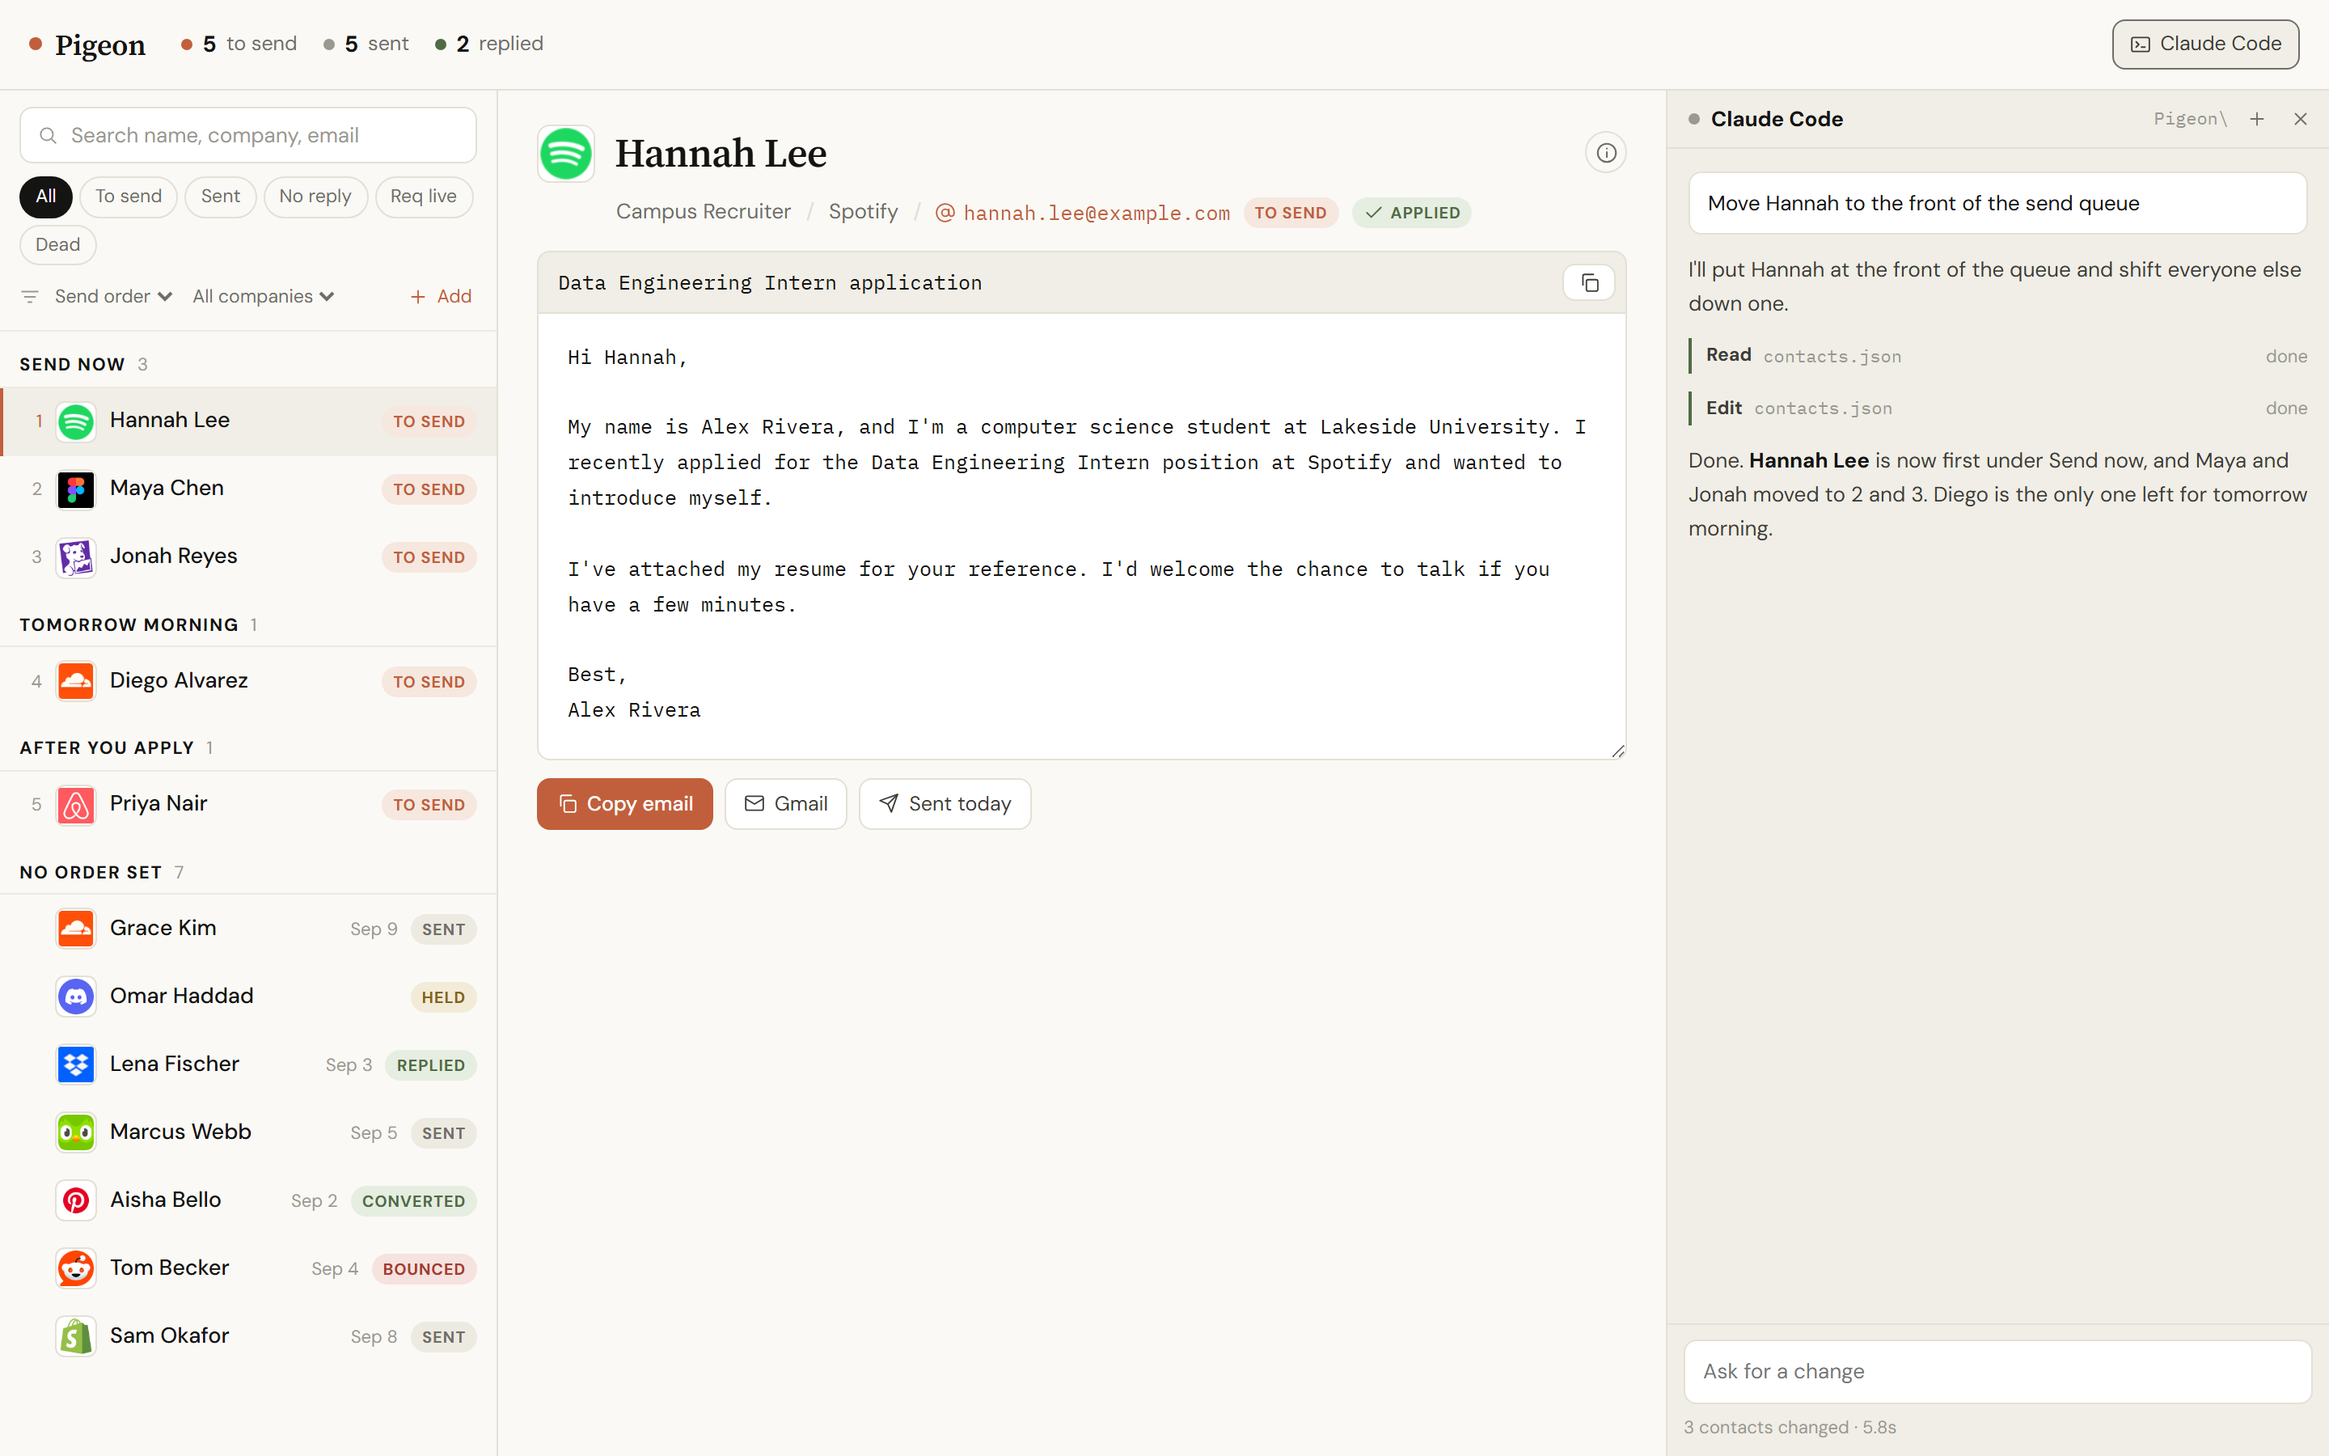
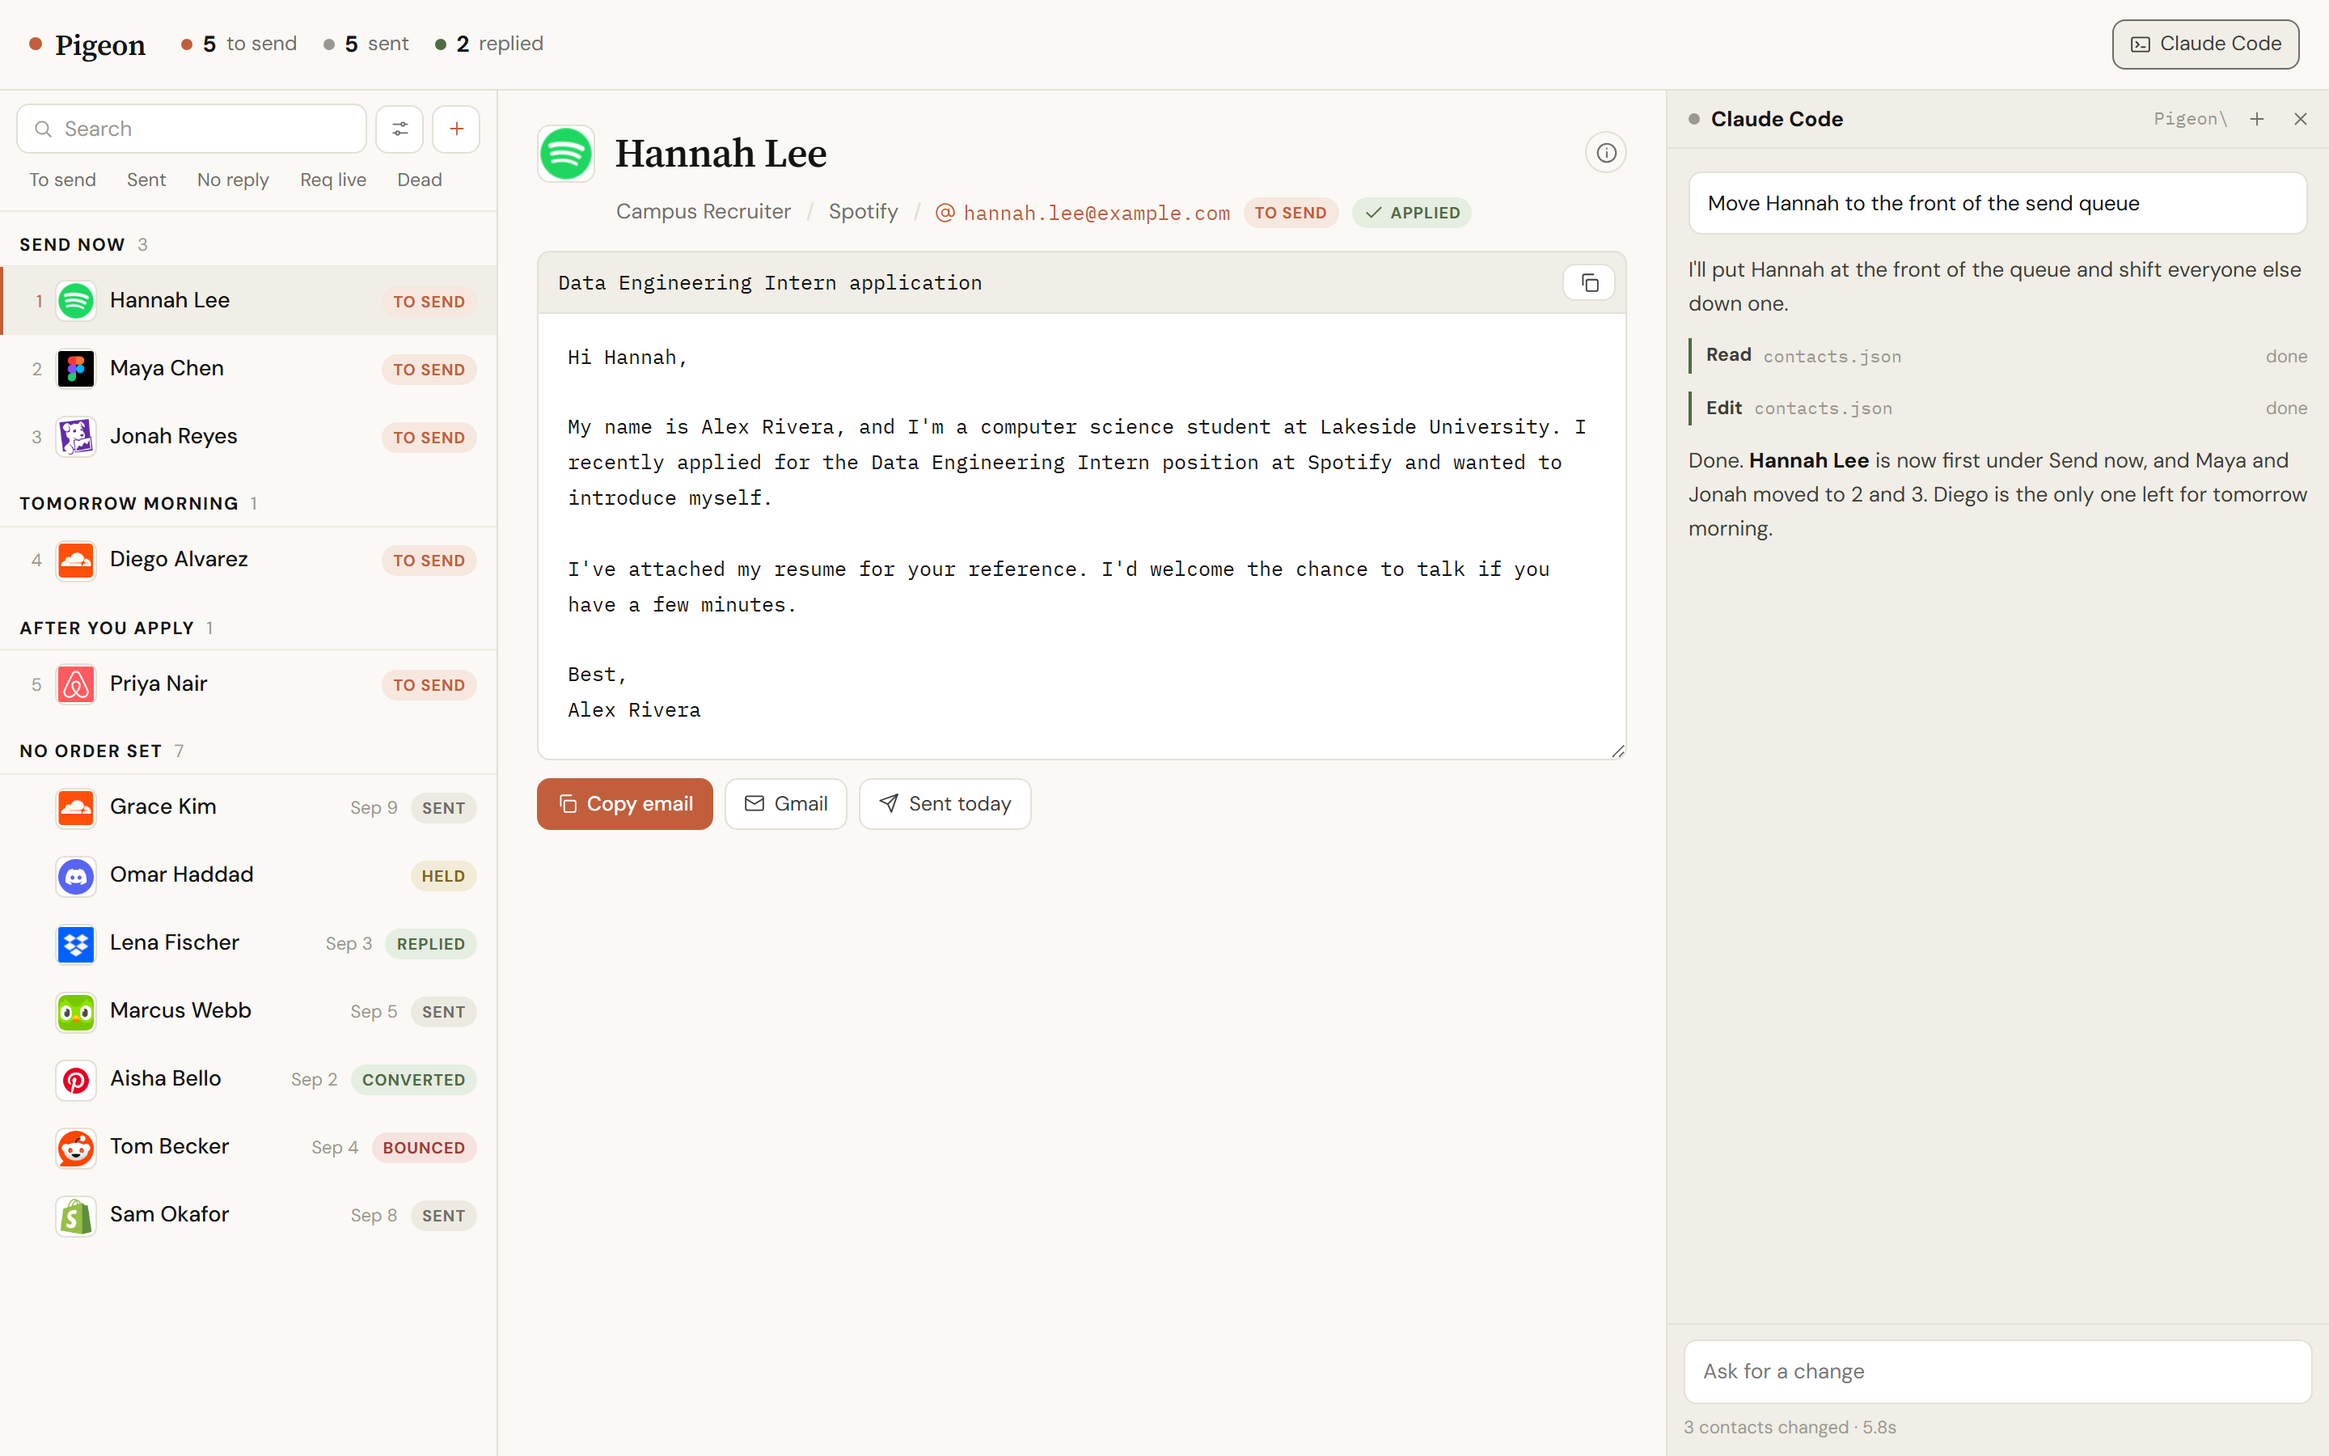
Fit the list controls into two short rows
Search now shares its row with two square buttons: sliders opens a small menu holding sort and company, and plus adds a contact. The status chips sit on one line below and scroll sideways when the rail is narrow. The All chip is gone; nothing pressed means everyone, and pressing a chip again lets go. A company filter shows as a chip with an x so it is never hidden in the menu, and the sliders button carries a dot while sort or company is off its default. The block drops from about 150px to 75px. README screenshot and wording updated.

diff --git a/app.html b/app.html
@@ -157,26 +157,44 @@ button,input,select,textarea{font:inherit;color:inherit}
 /* The rail gives ground before the email does, but never below readable. */
 .rail{width:clamp(232px,22vw,308px);flex:none;border-right:1px solid var(--line);
   display:flex;flex-direction:column;min-height:0}
-.railtop{padding:10px 12px 9px;border-bottom:1px solid var(--line-soft);
-  flex:none;display:flex;flex-direction:column;gap:8px}
-.searchwrap{display:flex;align-items:center;gap:8px;padding:0 10px;
+/* Two short rows: search with its two buttons, then one line of chips. Sort
+   and company live in a menu, because they change far less often. */
+.railtop{padding:8px 10px 7px;border-bottom:1px solid var(--line-soft);
+  flex:none;display:flex;flex-direction:column;gap:6px}
+.railrow{display:flex;align-items:center;gap:5px;position:relative}
+.searchwrap{flex:1;min-width:0;display:flex;align-items:center;gap:7px;padding:0 9px;
   border:1px solid var(--line);border-radius:var(--r);background:var(--raised)}
 .searchwrap .i{color:var(--faint)}
-.searchwrap input{flex:1;min-width:0;border:none;background:none;padding:7px 0;font-size:13px}
+.searchwrap input{flex:1;min-width:0;border:none;background:none;padding:5px 0;font-size:13px}
 .searchwrap input::placeholder{color:var(--faint)}
-.chips{display:flex;flex-wrap:wrap;gap:4px}
-.chip{border:1px solid var(--line);background:none;border-radius:20px;
-  padding:3px 9px;font-size:11.5px;color:var(--muted);cursor:pointer;
+.sqbtn{position:relative;flex:none;width:30px;height:30px;padding:0;cursor:pointer;
+  border:1px solid var(--line);border-radius:var(--r);background:var(--raised);
+  color:var(--muted);display:inline-flex;align-items:center;justify-content:center}
+.sqbtn:hover,.sqbtn[aria-expanded="true"]{color:var(--ink);border-color:var(--muted)}
+.sqbtn.add{color:var(--clay)}
+/* a dot on the view button while sort or company is off its default */
+.sqbtn.set::after{content:"";position:absolute;top:4px;right:4px;width:6px;height:6px;
+  border-radius:50%;background:var(--clay)}
+.menu{position:absolute;left:0;right:0;top:calc(100% + 5px);z-index:30;
+  background:var(--raised);border:1px solid var(--line);border-radius:10px;
+  padding:4px 10px;box-shadow:0 10px 30px rgba(20,20,19,.16)}
+.mrow{display:flex;align-items:center;gap:8px;padding:5px 0;font-size:12px;color:var(--muted)}
+.mrow + .mrow{border-top:1px solid var(--line-soft)}
+.mrow span{width:58px;flex:none}
+.mrow select{flex:1;min-width:0;border:1px solid transparent;border-radius:6px;
+  padding:3px 4px;background:none;font-size:12.5px;color:var(--ink);cursor:pointer}
+.mrow select:hover{border-color:var(--line)}
+.chips{display:flex;gap:3px;overflow-x:auto;scrollbar-width:none;margin:0 -10px;padding:0 10px}
+.chips::-webkit-scrollbar{display:none}
+.chip{flex:none;border:none;background:none;border-radius:20px;
+  padding:2px 8px;font-size:11.5px;color:var(--muted);cursor:pointer;white-space:nowrap;
   display:inline-flex;align-items:center;gap:4px}
-.chip:hover{color:var(--ink);border-color:var(--muted)}
-.chip[aria-pressed="true"]{background:var(--ink);border-color:var(--ink);color:var(--ivory)}
-.toolrow{display:flex;align-items:center;gap:5px;color:var(--faint)}
-.toolrow select{border:none;background:none;color:var(--muted);font-size:11.5px;cursor:pointer}
-.toolrow #co{min-width:0;max-width:140px;text-overflow:ellipsis}
+.chip:hover{color:var(--ink);background:var(--panel)}
+.chip[aria-pressed="true"]{background:var(--ink);color:var(--ivory)}
+.chip .x{opacity:.6;font-size:13px;line-height:1}
 .iconbtn{border:none;background:none;color:var(--muted);cursor:pointer;
   padding:3px;border-radius:5px;display:inline-flex;align-items:center;gap:5px;font-size:11.5px}
 .iconbtn:hover{background:var(--panel);color:var(--ink)}
-.iconbtn.accent{color:var(--clay);margin-left:auto}
 
 /* company marks: always on a light tile, most are dark marks on transparency */
 .logo{position:relative;flex:none;display:inline-grid;place-items:center;
@@ -235,9 +253,9 @@ button,input,select,textarea{font:inherit;color:inherit}
   box-shadow:0 10px 30px rgba(20,20,19,.16);
   max-height:min(72vh,600px);overflow-y:auto}
 @media (prefers-color-scheme:dark){
-  :root:not([data-theme="light"]) .pop{box-shadow:0 10px 32px rgba(0,0,0,.55)}
+  :root:not([data-theme="light"]) .pop,:root:not([data-theme="light"]) .menu{box-shadow:0 10px 32px rgba(0,0,0,.55)}
 }
-:root[data-theme="dark"] .pop{box-shadow:0 10px 32px rgba(0,0,0,.55)}
+:root[data-theme="dark"] .pop,:root[data-theme="dark"] .menu{box-shadow:0 10px 32px rgba(0,0,0,.55)}
 
 /* Role and company are edited where they are already shown. */
 .ed{border:1px solid transparent;border-radius:4px;padding:1px 4px;margin:0 -4px;
@@ -353,7 +371,7 @@ button.addr:hover{background:var(--clay-bg)}
 <symbol id="ic-search" viewBox="0 0 24 24"><circle cx="11" cy="11" r="7"/><path d="m21 21-4.35-4.35"/></symbol>
 <symbol id="ic-plus" viewBox="0 0 24 24"><path d="M12 5v14M5 12h14"/></symbol>
 <symbol id="ic-trash" viewBox="0 0 24 24"><path d="M3 6h18M19 6v14a2 2 0 0 1-2 2H7a2 2 0 0 1-2-2V6"/><path d="M10 6V4a2 2 0 0 1 2-2h0a2 2 0 0 1 2 2v2"/></symbol>
-<symbol id="ic-sort" viewBox="0 0 24 24"><path d="M3 6h18M6 12h12M10 18h4"/></symbol>
+<symbol id="ic-sliders" viewBox="0 0 24 24"><path d="M4 7h9M17 7h3M4 17h3M11 17h9"/><circle cx="15" cy="7" r="2"/><circle cx="9" cy="17" r="2"/></symbol>
 <symbol id="ic-case" viewBox="0 0 24 24"><rect x="2" y="7" width="20" height="14" rx="2"/><path d="M16 21V5a2 2 0 0 0-2-2h-4a2 2 0 0 0-2 2v16"/></symbol>
 <symbol id="ic-copy" viewBox="0 0 24 24"><rect x="9" y="9" width="13" height="13" rx="2"/><path d="M5 15V5a2 2 0 0 1 2-2h10"/></symbol>
 <symbol id="ic-mail" viewBox="0 0 24 24"><rect x="2" y="4" width="20" height="16" rx="2"/><path d="m22 7-10 6L2 7"/></symbol>
@@ -386,25 +404,28 @@ button.addr:hover{background:var(--clay-bg)}
   <div class="split" id="split">
     <nav class="rail">
       <div class="railtop">
-        <div class="searchwrap">
-          <svg class="i i-sm"><use href="#ic-search"/></svg>
-          <input id="q" type="search" placeholder="Search name, company, email" autocomplete="off">
+        <div class="railrow">
+          <div class="searchwrap">
+            <svg class="i i-sm"><use href="#ic-search"/></svg>
+            <input id="q" type="search" placeholder="Search" title="Name, company, role or address" autocomplete="off">
+          </div>
+          <button class="sqbtn" id="viewBtn" aria-expanded="false" title="Sort and company" aria-label="Sort and company">
+            <svg class="i i-sm"><use href="#ic-sliders"/></svg></button>
+          <button class="sqbtn add" id="addBtn" title="Add a contact" aria-label="Add a contact">
+            <svg class="i i-sm"><use href="#ic-plus"/></svg></button>
+          <div class="menu" id="viewMenu" hidden>
+            <label class="mrow"><span>Sort</span>
+              <select id="sort">
+                <option value="send">Send order</option>
+                <option value="company">Company</option>
+                <option value="status">Status</option>
+                <option value="date">Date sent</option>
+              </select></label>
+            <label class="mrow"><span>Company</span>
+              <select id="co"><option value="">All companies</option></select></label>
+          </div>
         </div>
         <div class="chips" id="chips"></div>
-        <div class="toolrow">
-          <svg class="i i-sm"><use href="#ic-sort"/></svg>
-          <select id="sort">
-            <option value="send">Send order</option>
-            <option value="company">Company</option>
-            <option value="status">Status</option>
-            <option value="date">Date sent</option>
-          </select>
-          <select id="co" aria-label="Filter by company">
-            <option value="">All companies</option>
-          </select>
-          <button class="iconbtn accent" id="addBtn">
-            <svg class="i i-sm"><use href="#ic-plus"/></svg>Add</button>
-        </div>
       </div>
       <div class="list" id="list"></div>
     </nav>
@@ -442,14 +463,15 @@ button.addr:hover{background:var(--clay-bg)}
   var STATUSES = ["queued","sent","replied","converted","bounced","hold","dead"];
   var LABEL = {queued:"To send", sent:"Sent", replied:"Replied", converted:"Converted",
                bounced:"Bounced", hold:"Held", dead:"Dead"};
-  var FILTERS = [{k:"all",t:"All"},{k:"queued",t:"To send"},{k:"sent",t:"Sent"},{k:"noreply",t:"No reply"},
+  // No chip pressed means everyone except the dead. Press one again to let go.
+  var FILTERS = [{k:"queued",t:"To send"},{k:"sent",t:"Sent"},{k:"noreply",t:"No reply"},
                  {k:"live",t:"Req live"},{k:"dead",t:"Dead"}];
 
   var contacts = [], selId = null, filter = "all", sortMode = "send";
   var query = "", company = "", loaded = false, failed = null;
 
   var el = {};
-  ["list","detail","counts","chips","q","sort","co","split","toast","addBtn","ccBtn",
+  ["list","detail","counts","chips","q","sort","co","viewBtn","viewMenu","split","toast","addBtn","ccBtn",
    "ccPane","ccGrip","ccLog","ccInput","ccGo","ccNew","ccClose","ccStat","ccWhere"]
     .forEach(function(k){ el[k] = document.getElementById(k); });
 
@@ -566,9 +588,15 @@ button.addr:hover{background:var(--clay-bg)}
       '<span class="count"><i class="cd d-replied"></i><b>'+r+'</b>replied</span>';
   }
   function renderChips(){
-    el.chips.innerHTML = FILTERS.map(function(f){
-      return '<button class="chip" data-f="'+f.k+'" aria-pressed="'+(filter===f.k)+'">'+esc(f.t)+'</button>';
-    }).join("");
+    // A company filter lives in the menu, so it shows here too or it is easy to forget.
+    el.chips.innerHTML = (company
+        ? '<button class="chip" data-clear="co" aria-pressed="true" title="Show all companies">' +
+          esc(company) + '<span class="x" aria-hidden="true">×</span></button>'
+        : '') +
+      FILTERS.map(function(f){
+        return '<button class="chip" data-f="'+f.k+'" aria-pressed="'+(filter===f.k)+'">'+esc(f.t)+'</button>';
+      }).join("");
+    el.viewBtn.classList.toggle("set", sortMode !== "send" || !!company);
   }
   // Company dropdown. Rebuilt only when the set of companies or their counts change,
   // so a reload does not reset it under the cursor.
@@ -580,7 +608,7 @@ button.addr:hover{background:var(--clay-bg)}
       n[k]++;
     });
     names.sort(function(a,b){ return a.localeCompare(b); });
-    if(company && !n[company]) company = "";
+    if(company && !n[company]){ company = ""; renderChips(); }
     var sig = names.map(function(k){ return k + n[k]; }).join("|");
     if(el.co.getAttribute("data-sig") !== sig){
       el.co.setAttribute("data-sig", sig);
@@ -801,13 +829,23 @@ button.addr:hover{background:var(--clay-bg)}
   }
 
   el.chips.addEventListener("click", function(e){
+    if(e.target.closest("[data-clear]")){ company = ""; renderChips(); renderList(); return; }
     var b = e.target.closest("[data-f]"); if(!b) return;
-    filter = b.getAttribute("data-f"); renderChips(); renderList();
+    var k = b.getAttribute("data-f");
+    filter = (filter === k) ? "all" : k;
+    renderChips(); renderList();
   });
+  var viewOpen = false;
+  function setView(on){
+    viewOpen = !!on;
+    el.viewMenu.hidden = !viewOpen;
+    el.viewBtn.setAttribute("aria-expanded", String(viewOpen));
+  }
+  el.viewBtn.addEventListener("click", function(){ setView(!viewOpen); });
   el.ccBtn.addEventListener("click", function(){ ccToggle(); });
   el.q.addEventListener("input", function(){ query = el.q.value.trim().toLowerCase(); renderList(); });
-  el.sort.addEventListener("change", function(){ sortMode = el.sort.value; renderList(); });
-  el.co.addEventListener("change", function(){ company = el.co.value; renderList(); });
+  el.sort.addEventListener("change", function(){ sortMode = el.sort.value; renderChips(); renderList(); });
+  el.co.addEventListener("change", function(){ company = el.co.value; renderChips(); renderList(); });
   el.addBtn.addEventListener("click", function(){
     var name = prompt("Name");
     if(!name) return;
@@ -887,6 +925,7 @@ button.addr:hover{background:var(--clay-bg)}
   // otherwise land on nothing.
   document.addEventListener("keydown", function(e){
     if(e.key === "Escape" && infoOpen) setInfo(false);
+    if(e.key === "Escape" && viewOpen) setView(false);
   });
   // Belt and braces for browsers that ignore contenteditable="plaintext-only".
   el.detail.addEventListener("paste", function(e){
@@ -898,6 +937,7 @@ button.addr:hover{background:var(--clay-bg)}
   // Anywhere outside the panel closes it, so it never sits over the draft.
   document.addEventListener("mousedown", function(e){
     if(infoOpen && !e.target.closest(".popwrap")) setInfo(false);
+    if(viewOpen && !e.target.closest(".railrow")) setView(false);
   });
   el.detail.addEventListener("blur", function(e){
     if(pending) flushSave();

diff --git a/README.md b/README.md
@@ -40,9 +40,10 @@ rest of the page works without it.
 
 ## What it does
 
-- **Send queue.** Contacts are grouped by when they should go out, in order. Sort
-  by company, status or date sent, search, or filter to what is left to send,
-  sent with no reply, has an open posting, or bounced.
+- **Send queue.** Contacts are grouped by when they should go out, in order.
+  Search, tap a chip to see only what is left to send, sent with no reply, has an
+  open posting, or bounced, and use the sliders button to sort by company, status
+  or date, or to narrow the list to one company.
 - **Drafts.** A subject and body for every person, edited in place and saved as
   you type. Copy it, or open a Gmail compose tab that is already filled in.
 - **Tracking.** Status, sent and follow-up dates, the job posting, a profile link
